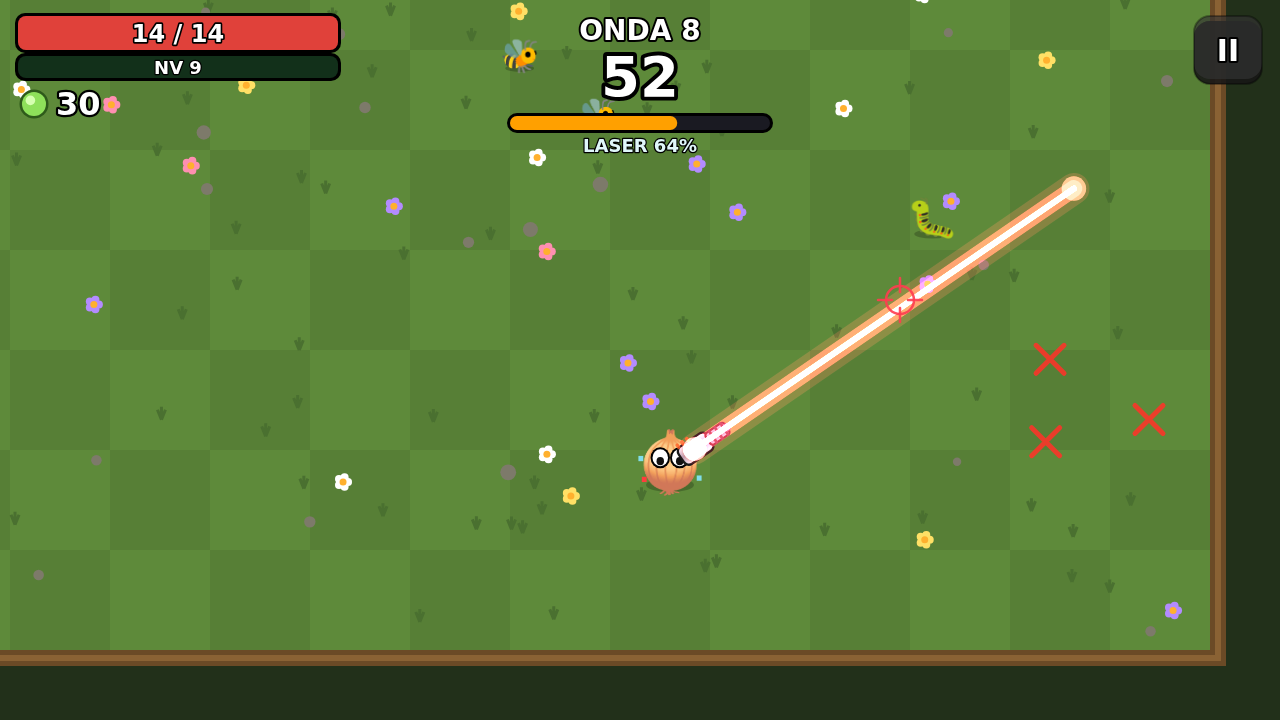
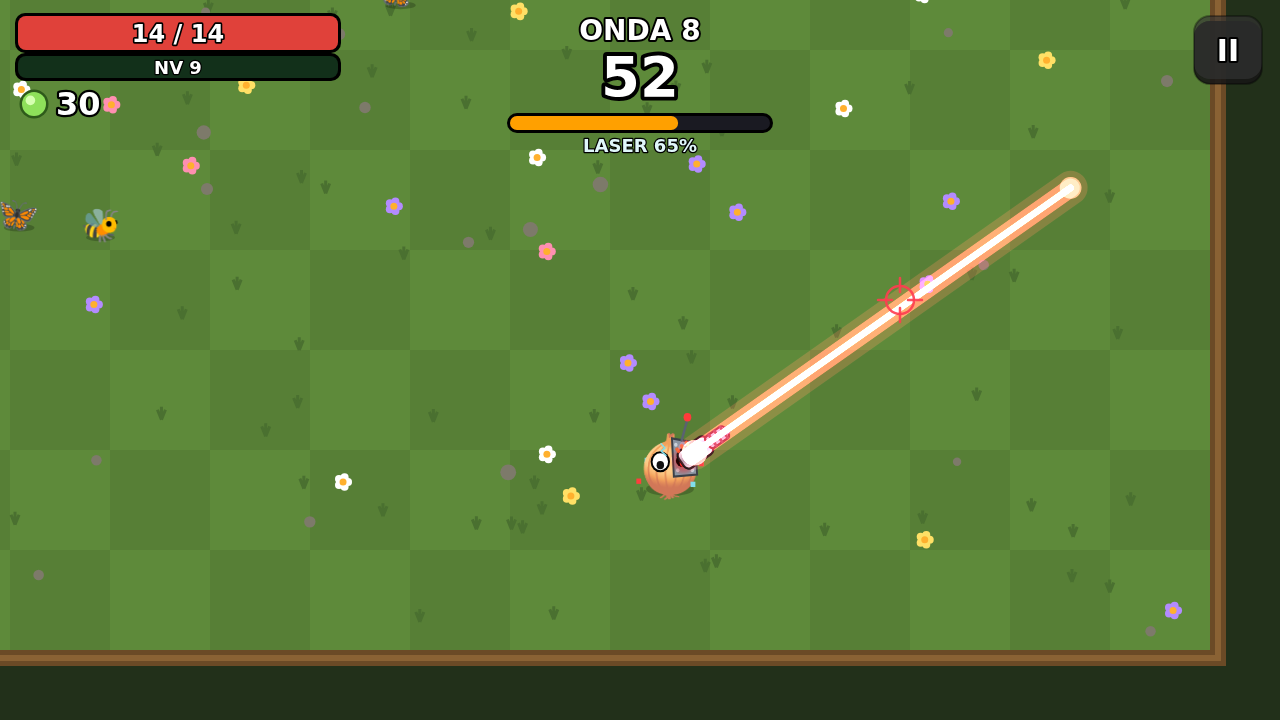
Cenoura Ninja e Cyborg Cebola voltam a ter os acessórios (com as partículas)
Claude-Session: https://claude.ai/code/session_01Tr8dcsXQ3Qhv37TYfuzK7q

diff --git a/pwa/js/art.js b/pwa/js/art.js
@@ -28,9 +28,78 @@ const Art = {
     this.emoji(c.icon, 0, 0, 68);
     ctx.restore();
     const lx = o.lookX === undefined ? (left ? -1 : 1) : o.lookX, ly = o.lookY || 0;
-    this.drawEyes(0, -4, 1, lx, ly);
+    if (c.look === 'cyborg') this.cyborgEyes(left, lx, ly, t);
+    else this.drawEyes(0, -4, 1, lx, ly);
+    this.heroAccessory(c.look, left, t, o);
     this.heroParticles(c.look, t, o, true);
     ctx.restore();
+  },
+
+  /** Olhos do Cyborg: um normal e um visor vermelho. */
+  cyborgEyes(left, lx, ly, t) {
+    const ctx = this.ctx;
+    const s = left ? -1 : 1; // o visor fica do lado da frente
+    this.drawEyeOne(-10 * s, -4, 1, lx, ly);
+    // placa de metal
+    ctx.fillStyle = '#8C96A3';
+    ctx.beginPath();
+    ctx.moveTo(2 * s, -26); ctx.lineTo(26 * s, -22); ctx.lineTo(28 * s, 8); ctx.lineTo(4 * s, 10); ctx.closePath();
+    ctx.fill();
+    ctx.strokeStyle = '#3B4048'; ctx.lineWidth = 2; ctx.stroke();
+    ctx.fillStyle = '#C9D1DB';
+    for (const [rx, ry] of [[6, -20], [22, -18], [8, 4], [23, 4]]) { ctx.beginPath(); ctx.arc(rx * s, ry, 1.8, 0, Math.PI * 2); ctx.fill(); }
+    // olho de LED
+    const glow = 0.7 + 0.3 * Math.sin(t * 6);
+    const g = ctx.createRadialGradient(14 * s, -5, 1, 14 * s, -5, 14);
+    g.addColorStop(0, 'rgba(255,60,60,' + glow + ')');
+    g.addColorStop(1, 'rgba(255,0,0,0)');
+    ctx.fillStyle = g;
+    ctx.beginPath(); ctx.arc(14 * s, -5, 14, 0, Math.PI * 2); ctx.fill();
+    ctx.fillStyle = '#220000';
+    ctx.beginPath(); ctx.ellipse(14 * s, -5, 8, 6, 0, 0, Math.PI * 2); ctx.fill();
+    ctx.fillStyle = '#FF2A2A';
+    ctx.beginPath(); ctx.arc(14 * s + lx * 2.5, -5 + ly * 2, 4, 0, Math.PI * 2); ctx.fill();
+    ctx.fillStyle = '#FFD0D0';
+    ctx.beginPath(); ctx.arc(14 * s + lx * 2.5 - 1.5, -6.5 + ly * 2, 1.4, 0, Math.PI * 2); ctx.fill();
+  },
+
+  drawEyeOne(x, y, s, lx, ly) {
+    const r = 8 * s;
+    const len = Math.hypot(lx, ly);
+    if (len > 0.01) { lx /= len; ly /= len; }
+    this.circle(x, y, r + 2 * s, '#000000');
+    this.circle(x, y, r, '#FFFFFF');
+    this.circle(x + lx * r * 0.4, y + ly * r * 0.4, r * 0.48, '#111111');
+  },
+
+  /** Só a Cenoura Ninja e o Cyborg Cebola têm acessório (faixa ninja; placa de metal e antena). */
+  heroAccessory(look, left, t, o) {
+    const ctx = this.ctx;
+    const s = left ? -1 : 1;
+    ctx.lineJoin = 'round'; ctx.lineCap = 'round';
+    switch (look) {
+      case 'ninja': { // faixa preta com pontas balançando
+        ctx.fillStyle = '#1C1C22';
+        ctx.fillRect(-26, -17, 52, 8);
+        ctx.fillStyle = '#C9D1DB'; ctx.fillRect(-6, -16, 12, 6); // placa da faixa
+        ctx.fillStyle = '#5A6270'; ctx.beginPath(); ctx.arc(0, -13, 1.8, 0, Math.PI * 2); ctx.fill();
+        const wv = Math.sin(t * 9) * 4 + (o.moving ? 4 : 0);
+        ctx.strokeStyle = '#1C1C22'; ctx.lineWidth = 5;
+        for (const d of [0, 1]) {
+          ctx.beginPath(); ctx.moveTo(-s * 24, -13);
+          ctx.quadraticCurveTo(-s * 38, -10 + d * 8 + wv, -s * (50 + d * 4), -4 + d * 10 - wv);
+          ctx.stroke();
+        }
+        break;
+      }
+      case 'cyborg': { // antena
+        ctx.strokeStyle = '#5A6270'; ctx.lineWidth = 2.5;
+        ctx.beginPath(); ctx.moveTo(s * 12, -24); ctx.lineTo(s * 18, -44); ctx.stroke();
+        const on = Math.sin(t * 8) > 0;
+        this.circle(s * 18, -46, 4, on ? '#FF3A3A' : '#7A1A1A');
+        break;
+      }
+    }
   },
 
   /**

diff --git a/pwa/sw.js b/pwa/sw.js
@@ -1,5 +1,5 @@
 // Service worker: guarda os arquivos do jogo para funcionar sem internet.
-const CACHE = 'horta-hostil-v12';
+const CACHE = 'horta-hostil-v13';
 const FILES = [
   './', 'index.html', 'manifest.webmanifest',
   'js/data.js', 'js/game.js', 'js/sfx.js', 'js/ranking.js', 'js/net.js', 'js/mp.js', 'js/ui.js', 'js/art.js', 'js/community.js', 'js/main.js',

diff --git a/README.md b/README.md
@@ -30,8 +30,8 @@ depois da primeira visita.
 - **👤 Contas:** salve o progresso na nuvem e continue em outro aparelho (site ou app).
 - **🗳 Enquetes** da comunidade e **🐞 Relatar bug / sugerir ideia** direto do jogo.
 - **Visual novo:** cada legume tem pequenas partículas animadas em volta que mostram o que ele é (brasas na
-  Pimenta, pipocas no Milho, estrelinhas ninja na Cenoura, gotas no Vampiro, pixels no Cyborg...) e todas as
-  armas e projéteis foram redesenhados com detalhes.
+  Pimenta, pipocas no Milho, gotas no Vampiro...). A Cenoura Ninja tem a faixa ninja e o Cyborg Cebola, a placa
+  de metal com olho de LED. Todas as armas e projéteis foram redesenhados com detalhes.
 - **Corrigido:** quando a onda acabava e você andava, as armas ficavam pra trás.
 - **O app Android agora tem o jogo completo** (o mesmo do site, embutido no APK e funcionando offline).
 
